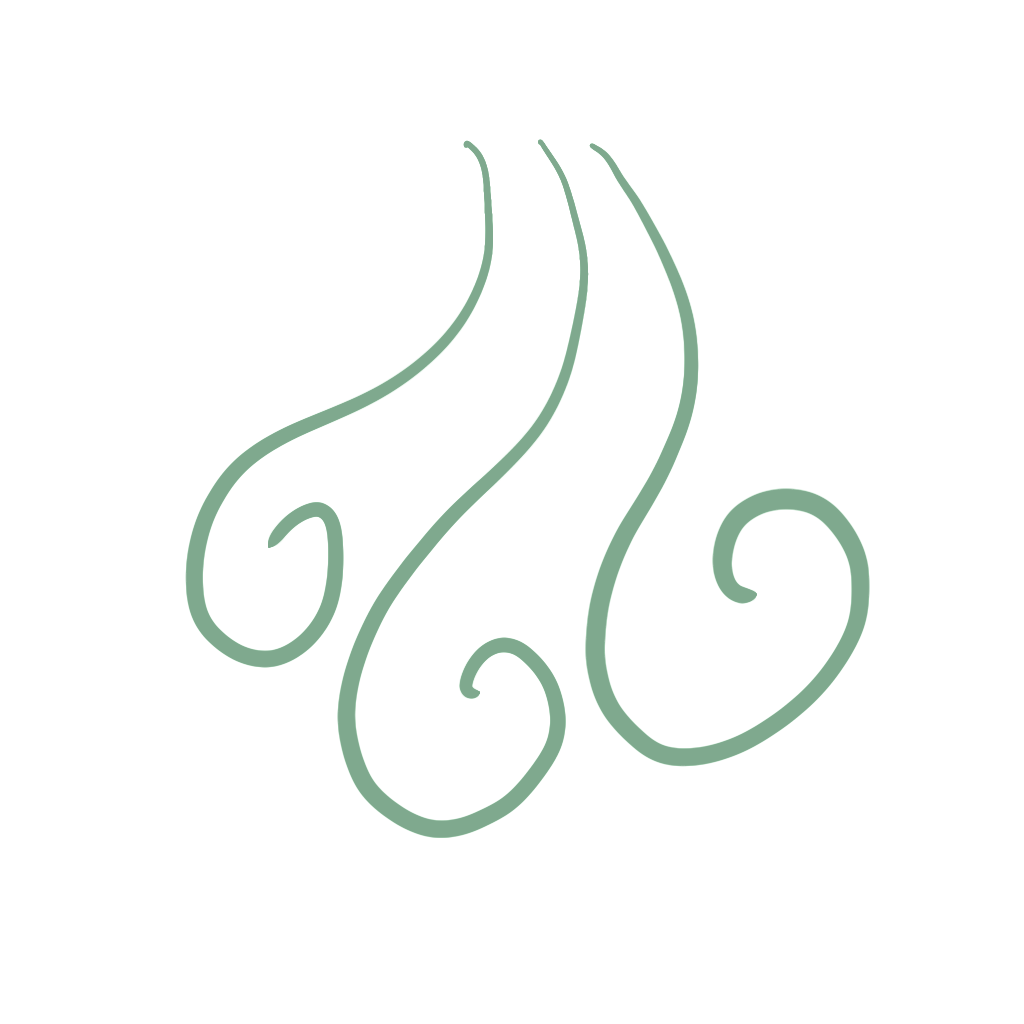
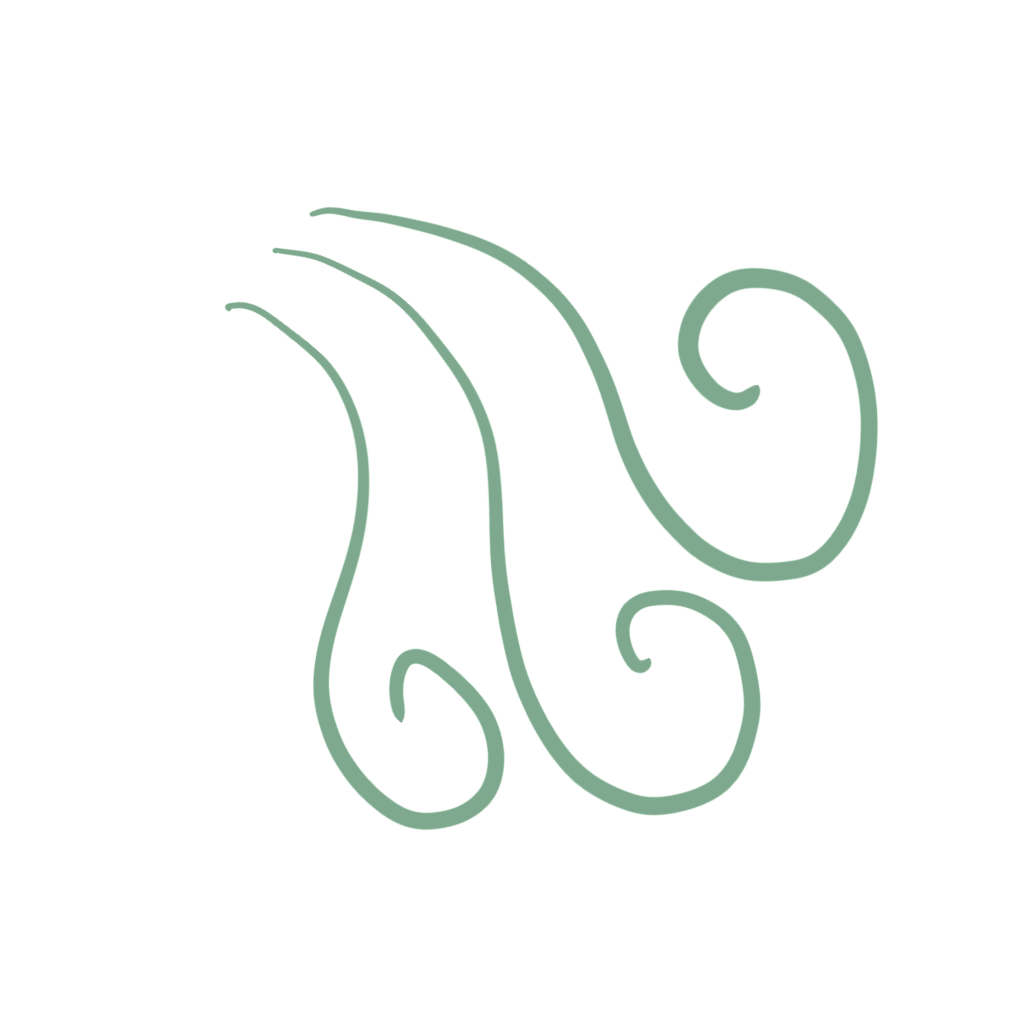
Sideways wind; drizzle for light rain
Wind: Ellen's new, more sideways drawing (thickened a little less, 13 px).
Drizzle: a rainy hour under 0.5 mm, or a rainy day under 3 mm in total,
is DRIZZLE instead of RAIN. It shows the rain icon until Ellen's
cloud-with-one-drop is drawn; screen readers and the Right now line
already say drizzle.

Claude-Session: https://claude.ai/code/session_01SaFbPBFfB9NE3XRJsFXALk

diff --git a/app.js b/app.js
@@ -114,13 +114,14 @@
   // Partly cloudy and clear show the moon after dark. On breezy hours that aren't already
   // "windy", a little wind spiral sits in the corner of the sun or cloud, so they're never hidden.
   var BREEZE = 6; // m/s; WIND (the big swoops) starts at 10, set in lib/combine.js
-  var SPOKEN = { THUNDER: "thunder", SUN: "sunny", CLEAR: "clear", MIX: "partly cloudy", CLOUDY: "grey", RAIN: "rain", SNOW: "snow", WIND: "windy" };
+  var SPOKEN = { THUNDER: "thunder", DRIZZLE: "drizzle", SUN: "sunny", CLEAR: "clear", MIX: "partly cloudy", CLOUDY: "grey", RAIN: "rain", SNOW: "snow", WIND: "windy" };
   function iconName(word, day) {
     if (word === "SUN") return "sun";
     if (word === "CLEAR") return "clear";
     if (word === "MIX") return day === false ? "mix-night" : "mix-day";
     if (word === "CLOUDY") return "cloudy";
     if (word === "RAIN") return "rain";
+    if (word === "DRIZZLE") return "rain"; // TODO: "drizzle" once Ellen's cloud-with-one-drop is drawn
     if (word === "SNOW") return "snow";
     if (word === "WIND") return "wind";
     if (word === "THUNDER") return "thunder";
@@ -463,7 +464,7 @@
     };
   }
 
-  var WORDS = { THUNDER: "Thundery", SUN: "Sunny", CLEAR: "Clear", MIX: "Partly cloudy", CLOUDY: "Grey", RAIN: "Wet", SNOW: "Snowy", WIND: "Windy" };
+  var WORDS = { THUNDER: "Thundery", DRIZZLE: "Drizzly", SUN: "Sunny", CLEAR: "Clear", MIX: "Partly cloudy", CLOUDY: "Grey", RAIN: "Wet", SNOW: "Snowy", WIND: "Windy" };
 
   function feel(temp) {
     if (temp <= 0) return "frosty";

diff --git a/lib/combine.js b/lib/combine.js
@@ -5,6 +5,7 @@
 const { HOUR } = require("./sources/http");
 
 const RAIN_MM = 0.1; // an hour counts as rainy for a forecast at 0.1 mm or more
+const DRIZZLE_MM = 0.5; // a rainy hour under this is drizzle (one drop), at or above it rain (three drops)
 
 // Collect every source's values into one map: slot start → { sourceId → values }.
 function toSlots(sources) {
@@ -47,7 +48,10 @@ function sunElevation(t, lat, lon) {
 // models rarely agree on exactly which hour a storm comes, so a strict majority would hide most of them.
 function weatherWord({ temp, mm, rainShare, wind, cloud, day, thunderVotes = 0, thunderShare = 0 }) {
   if (thunderVotes >= 2 && thunderShare >= 1 / 3) return "THUNDER";
-  if (rainShare >= 0.5 && mm >= RAIN_MM) return temp !== null && temp <= 0.5 ? "SNOW" : "RAIN";
+  if (rainShare >= 0.5 && mm >= RAIN_MM) {
+    if (temp !== null && temp <= 0.5) return "SNOW";
+    return mm < DRIZZLE_MM ? "DRIZZLE" : "RAIN";
+  }
   if (wind !== null && wind >= 10) return "WIND";
   if (cloud === null) return "–";
   if (cloud >= 80) return "CLOUDY";
@@ -113,4 +117,4 @@ function combine(sources, lat, lon) {
   return hours;
 }
 
-module.exports = { combine, sunElevation, weatherWord, howSure, RAIN_MM };
+module.exports = { combine, sunElevation, weatherWord, howSure, RAIN_MM, DRIZZLE_MM };

diff --git a/lib/days.js b/lib/days.js
@@ -37,9 +37,14 @@ function weekDates(todayDate) {
   return out;
 }
 
+const DRIZZLE_DAY_MM = 3; // a rainy day with less than this in total shows drizzle
+
 function dayWord({ mm, rainyHours, thunderHours = 0, hi, windMax, cloud, day }) {
   if (thunderHours >= 1) return "THUNDER";
-  if (mm !== null && mm >= 1 && rainyHours >= 2) return hi !== null && hi <= 1 ? "SNOW" : "RAIN";
+  if (mm !== null && mm >= 1 && rainyHours >= 2) {
+    if (hi !== null && hi <= 1) return "SNOW";
+    return mm < DRIZZLE_DAY_MM ? "DRIZZLE" : "RAIN"; // a wet but light day, typical Gothenburg drizzle
+  }
   return weatherWord({ temp: hi, mm: 0, rainShare: 0, wind: windMax, cloud, day });
 }
 

diff --git a/tests/combine.test.js b/tests/combine.test.js
@@ -63,3 +63,10 @@ test("thunder needs two forecasts and a third of the votes", () => {
   assert.strictEqual(h.thunderVotes, 2);
   assert.strictEqual(h.word, "THUNDER");
 });
+
+test("light rain is drizzle, from 0.5 mm an hour it's rain", () => {
+  const base = { temp: 8, rainShare: 1, wind: 3, cloud: 100, day: true };
+  assert.strictEqual(weatherWord({ ...base, mm: 0.2 }), "DRIZZLE");
+  assert.strictEqual(weatherWord({ ...base, mm: 0.5 }), "RAIN");
+  assert.strictEqual(weatherWord({ ...base, temp: 0, mm: 0.2 }), "SNOW");
+});

diff --git a/art/weather-icons/build.py b/art/weather-icons/build.py
@@ -10,7 +10,7 @@ SRC = os.path.dirname(os.path.abspath(__file__))
 OUT = os.path.join(SRC, "..", "..", "icons", "w")
 NAMES = ["sun", "clear", "mix-day", "mix-night", "cloudy", "rain", "snow", "wind", "breeze", "thunder"]
 SIZE = 144
-THICKEN = {"wind": 17}  # px of dilation at 1024 px
+THICKEN = {"wind": 13}  # px of dilation at 1024 px
 WINDOW = 840  # px of the 1024 canvas shown; the drawings fill roughly 700–800 of it
 
 os.makedirs(OUT, exist_ok=True)
